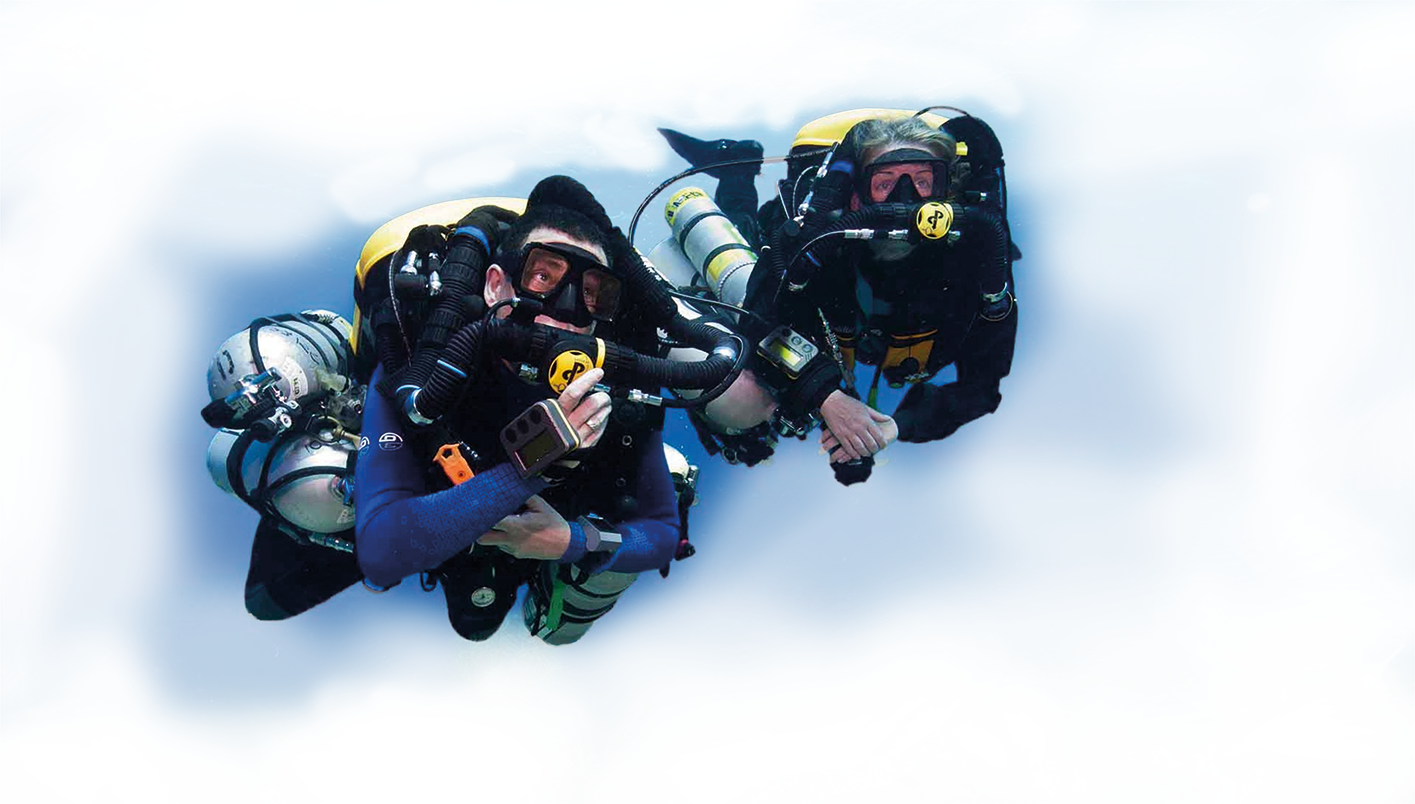
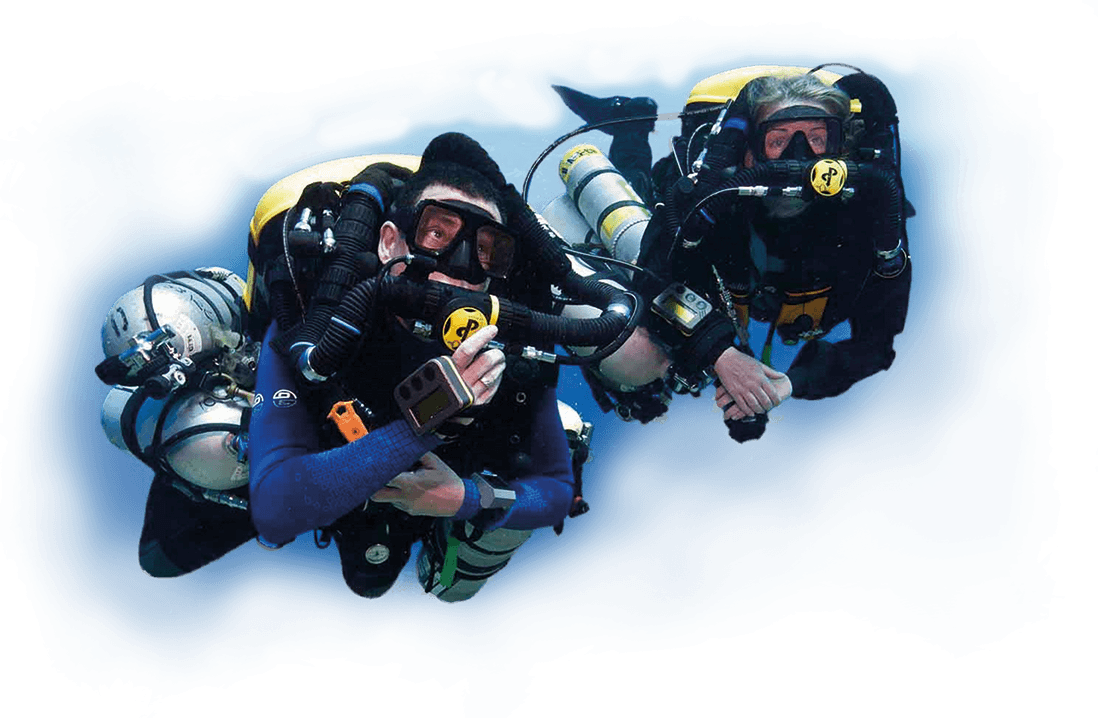
Image Compression
Compressed images to reduce page load

diff --git a/team/index.html b/team/index.html
@@ -53,14 +53,6 @@
             </ul>
         </header>
 
-        <div id="loader-wrapper">
-            <div id="loader"></div>
-
-            <div class="loader-section section-left"></div>
-            <div class="loader-section section-right"></div>
-
-        </div>
-
         <section class="starshine header-buffer">
             <div class="team-title">
                 <h2> 
@@ -242,17 +234,6 @@
         <script src="../js/plugins.js"></script>
         <script src="../js/main.js"></script>
         <script src="../js/jquery.scrollme.min.js"></script>
-
-        <script type="text/javascript">
-            $(document).ready(function() {
-    
-                setTimeout(function(){
-                    $('body').addClass('loaded');
-                    $('h1').css('color','#222222');
-                }, 3000);
-            
-            });
-        </script>
         
         <!-- Google Analytics: change UA-XXXXX-X to be your site's ID. -->
         <script>

diff --git a/css/main.css b/css/main.css
@@ -442,7 +442,7 @@ div.part2 div {
 }
 
 .scuba-divers {
-    max-width:70%;
+    max-width:60%;
     left: 5%;
     top:5%;
 }
@@ -673,12 +673,12 @@ div.osa-badge div:nth-child(2) {
 
 #ultrascope {
     position: relative;
-    top: -600px;
+    top: -650px;
 }
 
 #fuelpod {
     position: relative;
-    top: -600px;
+    top: -550px;
 }
 
 .fuelpod-badge {
@@ -702,7 +702,7 @@ div.osa-badge div:nth-child(2) {
 }
 
 .mavericks-lab-badge {
-    top: 64%;
+    top: 68%;
     right: 1%;
 }
 
@@ -750,6 +750,7 @@ div.onscreen {
 
 .relationships img {
     max-width: 200px;
+    width: 100%;
 }
 
 .relationships > div {
@@ -827,6 +828,7 @@ h1.future-where-text {
     font-style: italic;
     opacity: 0.6;
 }
+
 
 div.section-content.explore-monitor-protect-text {
     top: 90%;

diff --git a/index.html b/index.html
@@ -277,7 +277,7 @@
 
                 </div>
                 <div>
-                    <p> VIEW PROJECT &#8594; </p>
+                    <a href="http://openspaceagency.com" target="_blank"><p> VIEW PROJECT &#8594; </p></a>
                 </div>
             </div>
 
@@ -313,7 +313,7 @@
                     <p> An applied research accelerator for AI driven science.  </p>
                 </div>
                 <div>
-                    <p> VIEW PROJECT &#8594; </p>
+                    <a href="http://maverickslab.org" target="_blank"><p> VIEW PROJECT &#8594; </p></a>
                 </div>
             </div>
 
